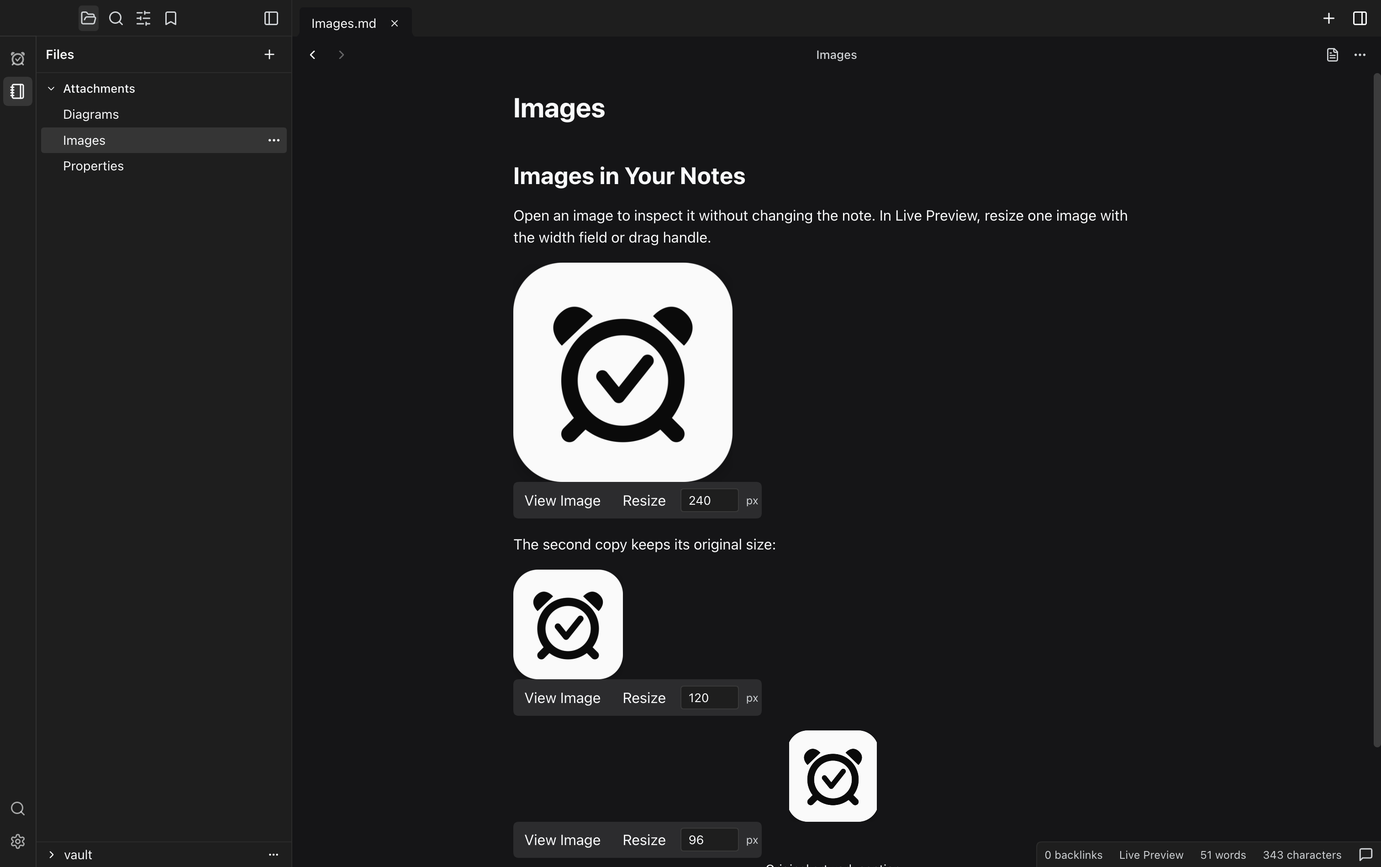
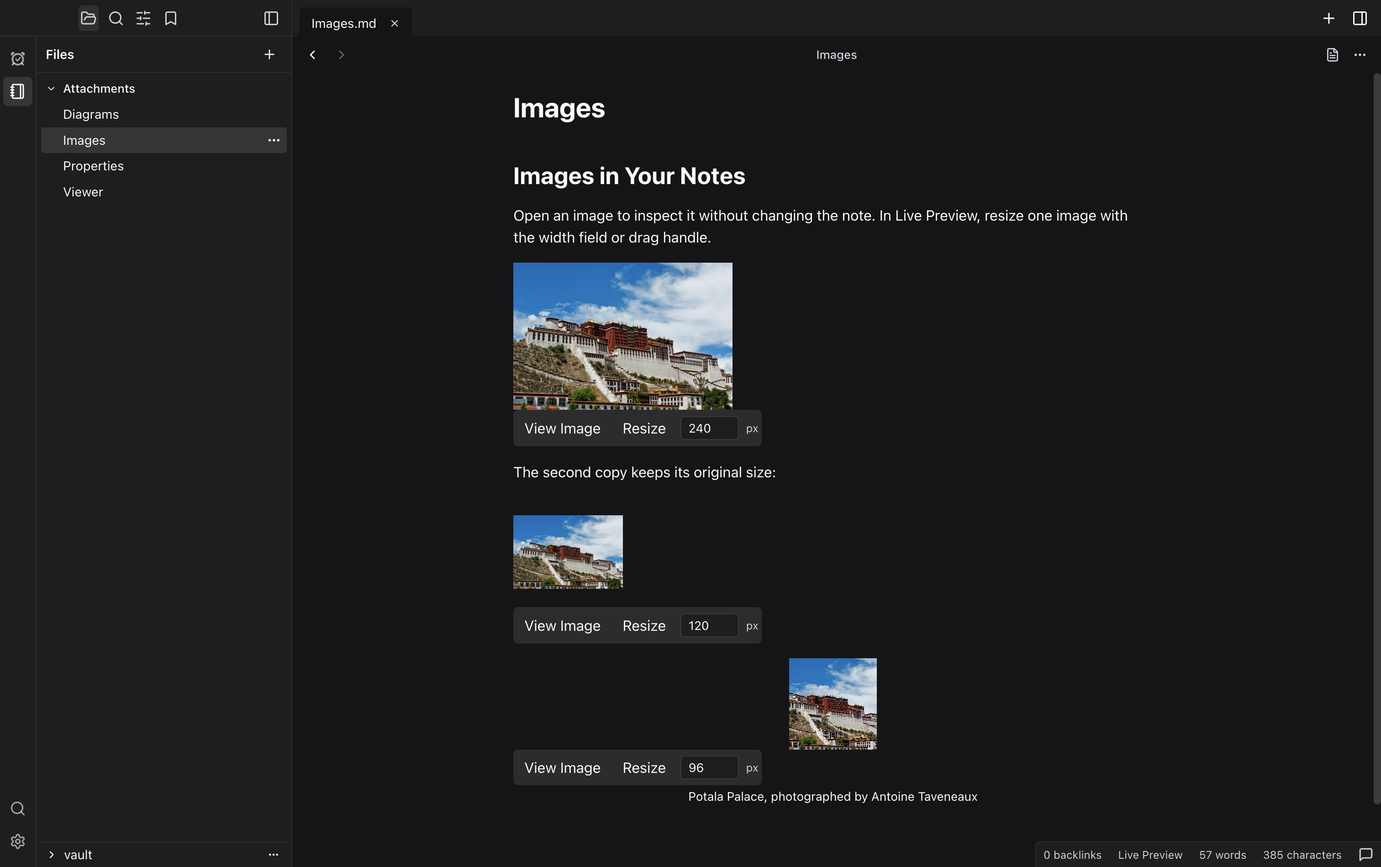
docs(tocktutor): refresh palace photo comparisons

diff --git a/.agents/uiux/tocktutor/tocktutor.html b/.agents/uiux/tocktutor/tocktutor.html
@@ -149,10 +149,10 @@
 <body>
   <header class="page-header">
     <div class="header-inner">
-      <p class="eyebrow">Visual Design Audit · 63 Captures</p>
+      <p class="eyebrow">Visual Design Audit · 64 Captures</p>
       <h1>TockTutor and Obsidian</h1>
       <p class="intro">TockTutor screenshots were refreshed from the source-built Desktop at <code>3c579a86</code> on September 24, 2026; 23 note-facing images were recaptured after the Live Preview correction at <code>81f533aa</code>; 21 Live Preview images were retaken with purple links and task checks, readable list numbers, and 16px checkbox glyphs at <code>02e96f0e</code>. The Main Workspace and Source Mode images were retaken from a source-built Desktop working tree with Back and Forward in the note header below the tabs. The new lower-note pair shows Data, Code and Notes, and Small Heading in both apps. Assistant and Web Viewer captures remain from the prior batch; the supplemental Reader View image remains from an earlier capture because its focused retry stayed loading. Existing Obsidian 1.13.7 reference images are byte-for-byte unchanged. Note-based surfaces use the shared <a href="comparison.md"><code>comparison.md</code></a> content. Older screenshots predate the filename change. The refreshed TockTutor note menu shows the current filename; attachments use <code>Notes/Welcome.md</code>, and Base and Canvas use the same <a href="../../../plugins/tocktutor/parity/fixtures/vault/">parity fixture files</a>. Search uses <code>Markdown</code> in both apps. The assistant pair uses empty conversations beside the same note, with Claudian 2.3.0 in Obsidian. Product-specific controls and catalogs remain genuine, not fabricated matches. See the <a href="content-alignment.md">capture proof and limitations</a>. Click an image for full resolution.</p>
-      <p class="intro">September 29 additions: six source-built Desktop captures cover the image viewer, image resizing, Mermaid Reading and Live Preview, diagram editing, and imported property controls. These use separate <a href="migration-fixtures/Viewer.md">image-viewer</a>, <a href="migration-fixtures/Images.md">image-resizing</a>, <a href="migration-fixtures/Diagrams.md">diagram</a>, and <a href="migration-fixtures/Properties.md">property</a> fixtures; the Image Viewer now pairs the same Potala Palace photo in TockTutor and installed Obsidian 1.13.7. The remaining additions are TockTutor feature evidence, not matched Obsidian comparisons. See the <a href="../../../.beads/reports/2026-09-29-tocktutor-migration-review.md">review and capture proof</a>.</p>
+      <p class="intro">September 29 additions: six source-built Desktop captures cover the image viewer, image resizing, Mermaid Reading and Live Preview, diagram editing, and imported property controls. These use separate <a href="migration-fixtures/Viewer.md">image-viewer</a>, <a href="migration-fixtures/Images.md">image-resizing</a>, <a href="migration-fixtures/Diagrams.md">diagram</a>, and <a href="migration-fixtures/Properties.md">property</a> fixtures; Image Viewer and Image Resizing now pair the same Potala Palace photo in TockTutor and installed Obsidian 1.13.7. The remaining four additions are TockTutor feature evidence, not matched Obsidian comparisons. See the <a href="../../../.beads/reports/2026-09-29-tocktutor-migration-review.md">migration review</a> and <a href="../../../.beads/reports/2026-09-30-tocktutor-palace-photo-refinement.md">latest photo capture proof</a>.</p>
       <div class="capture-standard">1512 × 949 CSS pixels · 2× scale · 3024 × 1898 output · Built-in Dark Theme · No Active Skin</div>
       <div class="legend" aria-label="Comparison legend">
         <span class="tt">TockTutor</span>
@@ -384,19 +384,19 @@
     </section>
 
     <section class="surface" id="image-viewer">
-      <p class="section-number">Surface 25</p><h2>Image Viewer</h2><p class="section-note">TockTutor floats the Potala Palace photo over a uniformly dimmed app, with a separate title and × Close control above the image. The image stays inside its zoom/pan area, so it cannot cover the exit or native window controls. The backdrop follows Appearance and app skin; app controls restore when the overlay closes. Keyboard/wheel zoom, drag/arrow-key pan, zero-to-fit, and Escape/focus return remain. Installed Obsidian shows the same photo and Markdown in its original full-window lightbox; this is a content comparison, not a claim of identical geometry. Both captures use the built-in dark theme. Photo: <a href="https://commons.wikimedia.org/wiki/File:Potala_palace23.jpg">Antoine Taveneaux</a>, <a href="https://creativecommons.org/licenses/by-sa/3.0/">CC BY-SA 3.0</a>.</p>
+      <p class="section-number">Surface 25</p><h2>Image Viewer</h2><p class="section-note">TockTutor floats the Potala Palace photo over an almost-hidden app: a 95% dimming layer leaves the background barely visible. A circular X button sits beside the separate title above the image, without a visible Close label. The image stays inside its zoom/pan area, so it cannot cover the exit or native window controls. The backdrop follows Appearance and app skin; app controls restore when the overlay closes. Keyboard/wheel zoom, drag/arrow-key pan, zero-to-fit, and Escape/focus return remain. Installed Obsidian shows the same photo and Markdown in its original full-window lightbox; this is a content comparison, not a claim of identical geometry. Both captures use the built-in dark theme. Photo: <a href="https://commons.wikimedia.org/wiki/File:Potala_palace23.jpg">Antoine Taveneaux</a>, <a href="https://creativecommons.org/licenses/by-sa/3.0/">CC BY-SA 3.0</a>.</p>
       <div class="comparison">
-        <figure class="tocktutor"><figcaption><span class="caption-title">TockTutor · Image Viewer</span><span class="badge">Current</span></figcaption><a class="screenshot-link" href="screenshots/tocktutor-image-viewer.png"><img loading="lazy" src="screenshots/tocktutor-image-viewer.png" alt="TockTutor floating image overlay showing Antoine Taveneaux's Potala Palace photo over a dimmed app, with a separate title and × Close control"></a></figure>
+        <figure class="tocktutor"><figcaption><span class="caption-title">TockTutor · Image Viewer</span><span class="badge">Current</span></figcaption><a class="screenshot-link" href="screenshots/tocktutor-image-viewer.png"><img loading="lazy" src="screenshots/tocktutor-image-viewer.png" alt="TockTutor floating image overlay showing Antoine Taveneaux's Potala Palace photo over an almost-hidden app, with a circular X button"></a></figure>
         <figure class="obsidian"><figcaption><span class="caption-title">Obsidian · Image Viewer</span><span class="badge">Reference</span></figcaption><a class="screenshot-link" href="screenshots/obsidian-image-viewer.png"><img loading="lazy" src="screenshots/obsidian-image-viewer.png" alt="Installed Obsidian image viewer showing the same Potala Palace photo in the built-in dark theme"></a></figure>
       </div>
     </section>
 
     <section class="surface" id="image-resizing">
-      <p class="section-number">Surface 26</p><h2>Image Resizing</h2><p class="section-note">Resize and Image Width commit an undoable width change to one local image. The first copy is saved at 240 pixels; the second retains 120 × 120, and the Markdown image retains its caption and alt text.</p>
+      <p class="section-number">Surface 26</p><h2>Image Resizing</h2><p class="section-note">Both products show the same Potala Palace photo and byte-identical note in Live Preview. TockTutor's Resize and Image Width controls commit an undoable change to one image: the first is saved at 240 pixels, the second retains 120 × 120, and the Markdown copy retains its 96-pixel width, caption, and alt text. The Obsidian reference shows the authored sizes, not the same resizing controls. Photo: Antoine Taveneaux, CC BY-SA 3.0.</p>
       <p class="fixture-proof"><strong>Save Proof:</strong> Changed 200 → 240 → 280, then used Undo once to return to 240. Saved, reopened, and verified exact note bytes; neither neighboring embed changed.</p>
       <div class="comparison">
-        <figure class="tocktutor"><figcaption><span class="caption-title">TockTutor · Live Preview Image Width</span><span class="badge">Saved and Reopened</span></figcaption><a class="screenshot-link" href="screenshots/tocktutor-image-resizing.png"><img loading="lazy" src="screenshots/tocktutor-image-resizing.png" alt="TockTutor Live Preview showing independent image width controls and the unchanged neighboring image"></a></figure>
-        <figure><figcaption><span class="caption-title">Obsidian · Image Resizing</span><span class="badge">Reference Not Captured</span></figcaption><div class="missing-reference"><strong>TockTutor Feature Evidence</strong><p>The screenshot demonstrates persisted Markdown widths, not a matched comparison of the two products' resizing controls.</p></div></figure>
+        <figure class="tocktutor"><figcaption><span class="caption-title">TockTutor · Live Preview Image Width</span><span class="badge">Saved and Reopened</span></figcaption><a class="screenshot-link" href="screenshots/tocktutor-image-resizing.png"><img loading="lazy" src="screenshots/tocktutor-image-resizing.png" alt="TockTutor Live Preview showing three Potala Palace images with independent width controls and unchanged neighboring images"></a></figure>
+        <figure class="obsidian"><figcaption><span class="caption-title">Obsidian · Image Resizing</span><span class="badge">Reference</span></figcaption><a class="screenshot-link" href="screenshots/obsidian-image-resizing.png"><img loading="lazy" src="screenshots/obsidian-image-resizing.png" alt="Installed Obsidian Live Preview showing the same three Potala Palace images at 240, 120 by 120, and 96 pixels"></a></figure>
       </div>
     </section>
 
@@ -426,7 +426,7 @@
       </div>
     </section>
 
-    <p class="footer">All screenshots use 1512 × 949 CSS pixels at 2× scale. Historical comparisons and the earlier Reader View capture retain their recorded provenance. The Image Viewer has a matching installed Obsidian reference; the other September 29 additions remain TockTutor-only feature evidence. Earlier Obsidian images are unchanged. Closest Reference and Reference Not Captured labels do not imply missing product capability.</p>
+    <p class="footer">All screenshots use 1512 × 949 CSS pixels at 2× scale. Historical comparisons and the earlier Reader View capture retain their recorded provenance. Image Viewer and Image Resizing have same-content installed Obsidian references; the remaining four September 29 additions stay TockTutor-only feature evidence. Only the two photo surfaces were refreshed; earlier unrelated Obsidian images are unchanged. Closest Reference and Reference Not Captured labels do not imply missing product capability.</p>
   </main>
 </body>
 </html>

diff --git a/tests/tocktutor-gallery.test.ts b/tests/tocktutor-gallery.test.ts
@@ -13,16 +13,16 @@ const links = [...html.matchAll(/<a class="screenshot-link" href="([^"]+)"/gu)].
 const sha256 = (bytes: string | Buffer): string => createHash('sha256').update(bytes).digest('hex')
 
 test('accounts for every gallery and supplemental capture without stale links', () => {
-  assert.match(html, /Visual Design Audit · 63 Captures/u)
+  assert.match(html, /Visual Design Audit · 64 Captures/u)
   assert.match(html, /Built-in Dark Theme · No Active Skin/u)
   assert.doesNotMatch(html, /UIUX Comparison/u)
   assert.doesNotMatch(html, /Tag and Tab Polish|id="polish"/u)
-  assert.equal(new Set(images).size, 63)
+  assert.equal(new Set(images).size, 64)
   assert.deepEqual(images, links)
   const actual = readdirSync(resolve(root, 'screenshots')).sort()
   assert.deepEqual(actual, proof.gallery.allowlist)
   assert.deepEqual(actual, Object.keys(proof.captures).sort())
-  assert.equal(actual.length, 70)
+  assert.equal(actual.length, 71)
   assert.deepEqual(actual.filter(name => !images.includes(`screenshots/${name}`)), proof.gallery.supplementalCaptures)
   assert.ok(proof.gallery.supplementalCaptures.includes('tocktutor-tag-tab-polish.png'))
   assert.ok(proof.comparisons.every((comparison: { surface: string }) => comparison.surface !== 'polish'))
@@ -60,7 +60,7 @@ test('pairs the Image Viewer with the verified installed Obsidian reference', ()
   ])
   for (const check of refresh.appearanceChecks) {
     assert.equal(check.documentSkin, null)
-    assert.match(check.backdrop, /^color\(srgb .+ \/ 0\.8\)$/u)
+    assert.match(check.backdrop, /^color\(srgb .+ \/ 0\.95\)$/u)
     assert.ok(check.titleContrast >= 4.5)
     assert.ok(check.closeContrast >= 4.5)
     assert.deepEqual(check.geometry, [1512, 949, 2])
@@ -71,7 +71,12 @@ test('pairs the Image Viewer with the verified installed Obsidian reference', ()
   assert.ok(layout.header.y >= 40)
   assert.ok(layout.viewport.y >= layout.header.y + layout.header.height)
   assert.ok(layout.close.height >= 36)
-  assert.equal(layout.closeText, 'Close')
+  assert.equal(layout.closeText, '')
+  assert.equal(layout.closeAccessibleName, 'Close')
+  assert.equal(layout.close.width, layout.close.height)
+  assert.equal(layout.closeCircular, true)
+  assert.equal(refresh.backdropOpacity, 0.95)
+  assert.equal(refresh.appContribution, 0.05)
   assert.equal(layout.controlsOutsideMedia, true)
   assert.equal(layout.uniformlyDimmed, true)
   assert.equal(layout.appVisibleBehind, true)
@@ -79,12 +84,36 @@ test('pairs the Image Viewer with the verified installed Obsidian reference', ()
   assert.equal(refresh.interactions.underlyingSidebarNotActivated, true)
   assert.deepEqual(refresh.interactions.verifiedModes, ['reading', 'source', 'live-preview'])
   assert.equal(proof.captures['tocktutor-image-viewer.png'].visibleState.toolbar, false)
-  assert.match(section, /dimmed app/u)
-  assert.match(section, /× Close/u)
+  assert.match(section, /almost-hidden app/u)
+  assert.match(section, /circular X/u)
+  assert.doesNotMatch(section, /× Close/u)
   assert.doesNotMatch(section, /backdrop matches Obsidian|Both products.+full-window/u)
 })
 
-test('keeps unmatched migration surfaces distinct from the Image Viewer pair', () => {
+test('pairs Image Resizing with byte-identical palace images and saved widths in installed Obsidian', () => {
+  const section = /<section class="surface" id="image-resizing">([\s\S]*?)<\/section>/u.exec(html)![1]!
+  assert.deepEqual([...section.matchAll(/<img\b[^>]*\bsrc="([^"]+)"/gu)].map(match => match[1]), [
+    'screenshots/tocktutor-image-resizing.png', 'screenshots/obsidian-image-resizing.png',
+  ])
+  assert.doesNotMatch(section, /missing-reference|Reference Not Captured/u)
+  const current = proof.captures['tocktutor-image-resizing.png']
+  const reference = proof.captures['obsidian-image-resizing.png']
+  assert.equal(reference.product, 'Obsidian 1.13.7')
+  assert.equal(reference.captureScope, 'real-desktop')
+  assert.equal(reference.contentSha256, current.contentSha256)
+  assert.equal(reference.assetSha256, current.assetSha256)
+  assert.deepEqual(reference.visibleState.widths, [240, 120, 96])
+  assert.deepEqual(current.visibleState.widths, [240, 120, 96])
+  assert.equal(current.visibleState.undoOneStep, true)
+  assert.equal(current.visibleState.reopened, true)
+  const pair = proof.pairs.find((p: { surface: string }) => p.surface === 'image-resizing')
+  assert.equal(pair.tocktutor.path, 'Images.md')
+  assert.equal(pair.obsidian.path, 'Images.md')
+  assert.equal(pair.tocktutor.contentSha256, pair.obsidian.contentSha256)
+  assert.match(section, /Potala Palace/u)
+})
+
+test('keeps unmatched migration surfaces distinct from the two palace-photo pairs', () => {
   const additions = proof.migrationReview
   assert.equal(additions.allowlist.length, 6)
   assert.equal(additions.registryUnchanged, true)
@@ -94,11 +123,13 @@ test('keeps unmatched migration surfaces distinct from the Image Viewer pair', (
     assert.ok(html.includes(`id="${id}"`), id)
     assert.ok(html.includes(`href="#${id}"`), id)
   }
-  assert.match(html, /remaining additions are TockTutor feature evidence, not matched Obsidian comparisons/u)
+  assert.match(html, /remaining four additions are TockTutor feature evidence, not matched Obsidian comparisons/u)
   for (const name of additions.allowlist) {
     assert.ok(images.includes(`screenshots/${name}`), name)
     assert.equal(proof.captures[name].captureScope, 'real-desktop')
-    assert.equal(proof.captures[name].sourceCommit, name === 'tocktutor-image-viewer.png' ? additions.imageViewerRefresh.sourceCommit : additions.sourceCommit)
+    const expectedCommit = name === 'tocktutor-image-viewer.png' ? additions.imageViewerRefresh.sourceCommit
+      : name === 'tocktutor-image-resizing.png' ? additions.imageResizingRefresh.sourceCommit : additions.sourceCommit
+    assert.equal(proof.captures[name].sourceCommit, expectedCommit)
   }
   const fixtures = resolve(root, additions.fixtures)
   const source = (name: string) => readFileSync(resolve(fixtures, name), 'utf8')
@@ -107,7 +138,9 @@ test('keeps unmatched migration surfaces distinct from the Image Viewer pair', (
   assert.equal(proof.captures['tocktutor-image-viewer.png'].path, 'Viewer.md')
   assert.equal(additions.imageViewerRefresh.obsidianReference, 'obsidian-image-viewer.png')
   assert.match(html, /id="image-viewer"[\s\S]*?Antoine Taveneaux[\s\S]*?CC BY-SA 3\.0/u)
-  const afterImages = source('Images.md').replace('tockteam.png|200', 'tockteam.png|240')
+  assert.doesNotMatch(source('Images.md'), /tockteam\.png/u)
+  assert.equal((source('Images.md').match(/Potala_palace23\.jpg/gu) ?? []).length, 3)
+  const afterImages = source('Images.md').replace('Potala_palace23.jpg|200', 'Potala_palace23.jpg|240')
   const afterProperties = source('Properties.md').replace('due: null', 'due: "2026-10-01"').replace('finished: null', 'finished: true').replace('rating: 1e-7', 'rating: 1e+21')
   const afterDiagrams = source('Diagrams.md').replace('  A[Start] --> B[Finish]', '  A[Start] --> B[Finish]\n    B --> C[Reviewed]')
   for (const [name, content] of Object.entries({

diff --git a/.beads/reports/2026-09-30-tocktutor-palace-photo-refinement.md b/.beads/reports/2026-09-30-tocktutor-palace-photo-refinement.md
@@ -1,0 +1,47 @@
+# Palace Photo Viewer and Image Resizing Refinement
+
+Source: `8f3bed69`. Bead: `tockteam-d982`.
+
+## Result
+
+- The app behind the photo contributes only 5% through a 95% semantic-canvas dimming layer, reduced from 20% previously.
+- A 36 × 36 circular Lucide X replaces visible Close text. The accessible name remains **Close**; shared focus, keyboard, hit target, and immediate appearance-switch behavior remain.
+- Surface 26, **Image Resizing**, now uses the palace JPEG in all three examples. TockTutor and genuine installed Obsidian show byte-identical saved Markdown and photo bytes, including 240, 120 × 120, and 96-pixel authored sizes. The reference does not claim identical editing controls.
+
+## Confirmed Findings
+
+Total confirmed findings: **1**, fixed. **0 unresolved confirmed findings.** Requested extra dimming and label removal are design refinements, not additional counted bugs.
+
+1. **Medium — A Full-Radius Class Alone Did Not Make the Exit Circular.** `plugins/tocktutor/packages/tockteam-tocktutor-workbench/src/image-viewer.tsx`: during the first implementation, the normal `.rounded-lg` shared-button utility followed `.rounded-full` in emitted CSS, leaving a computed 9 px radius despite equal 36 px sides. This did not satisfy the requested circle. Fixed with the feature-local `!rounded-full` override rather than changing every shared button or adding a dependency. Fresh real Desktop measurements verify equal 36 px dimensions, full radius, center hit testing, and visible X in all eight appearances and narrow layouts; the maximum-zoom image stays clipped below the exit.
+
+## Verification
+
+- Failing component check: `pnpm -C plugins/tocktutor/packages/tockteam-tocktutor-workbench exec vitest run tests/image-viewer.test.tsx --environment jsdom`; the old button returned visible text Close instead of empty text. Subsequent failures cascaded from that failed test's still-mounted dialog.
+- Real-app failing check recorded an 80% backdrop, visible Close text, 85.195 × 36 button, and 9 px radius. A second rendered check caught the normal-radius CSS precedence before final capture.
+- Final focused check: `pnpm -C plugins/tocktutor/packages/tockteam-tocktutor-workbench exec vitest run tests/image-viewer.test.tsx tests/image-resize.test.tsx --environment jsdom`: **15 passed**.
+- `node --test tests/skins.test.ts tests/shadcn-migration.test.ts tests/ui-ref-contract.test.ts tests/icons.test.ts tests/dsh-lucide-icons.test.ts`: **36 passed**.
+- Gallery regressions failed before replacing the previous 80%/labeled-button proof and adding the genuine Image Resizing reference.
+- `node --test tests/tocktutor-gallery.test.ts tests/tocktutor-content-alignment.test.ts`: **13 passed** after publication.
+- `pnpm run typecheck:tocktutor` and `pnpm run typecheck`: passed.
+- `pnpm run test:tocktutor`: passed, including **742** workbench component tests, **418** workbench Node tests, and **167** TockTutor tests.
+- `pnpm test`: **1,600 passed, 18 skipped, 0 failed**.
+- `pnpm run build:tocktutor`, `pnpm run build`, `node scripts/stage-dsh.mjs --quick`, and `node scripts/tocktutor-build-manifest.mjs --check`: passed. The root build/manifest check ran again after publication.
+- Scoped whitespace checks passed; unrelated protected changes were not included.
+
+### Rendered Checks
+
+App-scoped Playwright/CDP attached only to owned `extended_display` endpoints on display 17. Generic Electron 42.3.0 loaded the actual Desktop application; installed Obsidian 1.13.7 loaded its genuine `/Applications/Obsidian.app/Contents/Resources/app.asar`, never the native executable. HOME and user profiles were preserved; vaults and app data were isolated.
+
+TockTutor checked Default, Navy, Jade, and Ember in dark/light, opposite system appearance and changes while open; Reading, Source, and Live Preview; keyboard/wheel zoom, drag/arrow pan and fit; 1478 × 1106, 640 × 720, and 390 × 720 CSS viewports; maximum zoom eight; focus trapping/return; Close/Escape/gutter dismissal; and shell-control restoration without activating the underlying sidebar. The actual X is outside the clipped image viewport at x=1460, y=54, 36 × 36 in the canonical window. Minimum title/control contrast: **11.74:1**. Appearance animation remains disabled on this exit only.
+
+Image resizing exercised the real width field and drag handle: 200 → 240 → 280, one Undo to 240, save and reopen. Exact vault bytes match only the intended first width change; the 120 × 120 and 96-pixel neighbors, authored alt, and caption remain. Obsidian renders those exact saved bytes in Live Preview. Viewer input bytes are unchanged. Source JPEG dimensions are **3872 × 2592**.
+
+All four captures verify **1512 × 949 CSS pixels at DPR 2**, yielding **3024 × 1898 PNGs**, explicit built-in dark and no skin. TockTutor's document inline color scheme is dark. Genuine Obsidian owns dark appearance on the body: `theme-dark`, configured theme `obsidian`, and computed body color scheme dark; its empty document inline color-scheme was recorded honestly, not overwritten. Capture-time console/page errors: **0**. External requests: **0**. Original Obsidian user-registry fingerprint and copied fixture `types.json` are unchanged.
+
+Final Desktop root **12891** and Obsidian root **20753**, and diagnostic roots **94515**, **9366**, **18245**, were explicitly stopped with no remaining descendants. One diagnostic Obsidian window reached the guard's ten-minute limit; a fresh guarded run produced the final screenshots. No owned browser/app/server remains.
+
+Publication allowlist: `tocktutor-image-viewer.png`, `tocktutor-image-resizing.png`, `obsidian-image-viewer.png`, `obsidian-image-resizing.png`. Only these staged candidates are published with rollback; **67 unrelated existing images remain byte-identical**. The freshly captured Obsidian viewer PNG is identical to its earlier hash. Detailed state/hashes are in `.agents/uiux/tocktutor/content-alignment.json`. Temporary runnable probes and full logs: `/tmp/tocktutor-viewer-refinement-20260930`.
+
+## Limitations
+
+The supplied PNG and reduced JPEG could not be displayed inline. Local macOS Vision OCR confirmed **SURFACE 26 / Image Resizing**, its saved-width proof, and the previous missing Obsidian reference; no pixel-exact visual-match claim is made. React Doctor scanned four scoped files and found no issues, but maintainability analysis failed non-fatally; the audit/score is incomplete. Its initial broad scans timed out, then a bounded nested-workspace scan returned partial results. No dependency, account, IPC, Host authority, global palette, native-window behavior, or installed-launcher smoke changed. Protected `AGENTS.md`, `tests/right-panel-layout.test.ts`, existing Playwright outputs, and concurrent Raycast/account work remain untouched. No push.

diff --git a/.agents/uiux/tocktutor/content-alignment.md b/.agents/uiux/tocktutor/content-alignment.md
@@ -1,6 +1,14 @@
 # TockTutor and Obsidian Content Alignment
 
-## Floating Image Overlay — 2026-09-30
+## Barely Visible App and Palace Image Resizing — 2026-09-30
+
+Source commit `8f3bed69` increases semantic-canvas dimming from 80% to 95% and replaces the visible Close label with a circular 36 × 36 X button, retaining its accessible name Close. Real Desktop CSS checks confirmed the circle rather than relying on the class name: the ordinary shared rounded utility initially won, so the local full-radius override is explicit. Eight app appearances, opposite system appearance, switches while open, all three editor modes, narrow viewports, maximum zoom eight, dismissal, focus, and restored shell controls passed. The minimum title/control contrast remains 11.74:1. No skin catalog or shared-button behavior changed.
+
[1 lines of base64/hex data omitted]
+
+Published only `tocktutor-image-viewer.png`, `tocktutor-image-resizing.png`, `obsidian-image-viewer.png`, and new `obsidian-image-resizing.png`; all 67 unrelated existing captures are unchanged. The fresh Obsidian viewer PNG happens to have the same hash as its earlier capture. Each capture is 1512 × 949 CSS pixels at DPR 2, producing 3024 × 1898 PNGs; the source photo is 3872 × 2592. Runtime errors and external requests are empty. Final Desktop root PID 12891 and Obsidian root PID 20753 stopped with all descendants, as did diagnostic roots 94515, 9366, and 18245. The original Obsidian user registry fingerprint is unchanged. The gallery now displays 64 unique images and retains seven supplemental files (71 total). See `content-alignment.json` and [the refinement report](../../../.beads/reports/2026-09-30-tocktutor-palace-photo-refinement.md).
+
+## Historical Floating Image Overlay — 2026-09-30
 
 At source commit `9f6261ec`, the user requested a photo floating over a dimmed app rather than a separate full-window page. Retook only `tocktutor-image-viewer.png`; all 69 other screenshot files, including the genuine installed Obsidian reference, are unchanged. The products retain identical `Viewer.md` and Potala Palace JPEG bytes, but the current comparison is content alignment, not exact viewer geometry.
 

diff --git a/.agents/uiux/tocktutor/migration-fixtures/Images.md b/.agents/uiux/tocktutor/migration-fixtures/Images.md
@@ -2,10 +2,10 @@
 
 Open an image to inspect it without changing the note. In Live Preview, resize one image with the width field or drag handle.
 
-![[Attachments/tockteam.png|200]]
+![[Attachments/Potala_palace23.jpg|200]]
 
 The second copy keeps its original size:
 
-![[Attachments/tockteam.png|120x120]]
+![[Attachments/Potala_palace23.jpg|120x120]]
 
-![TockTeam Artwork|96](Attachments/tockteam.png "Original artwork caption")
+![Potala Palace|96](Attachments/Potala_palace23.jpg "Potala Palace, photographed by Antoine Taveneaux")
